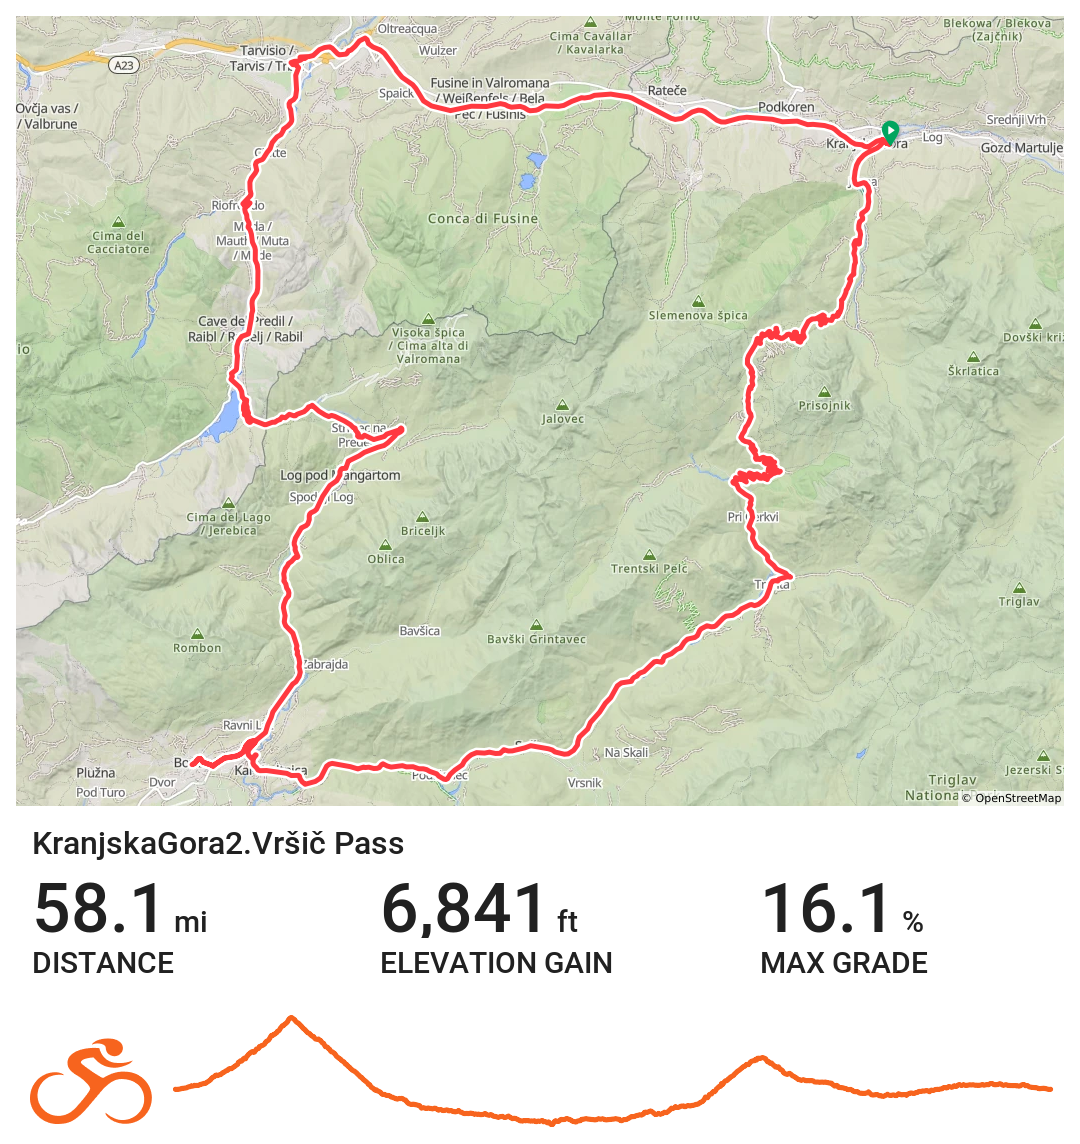
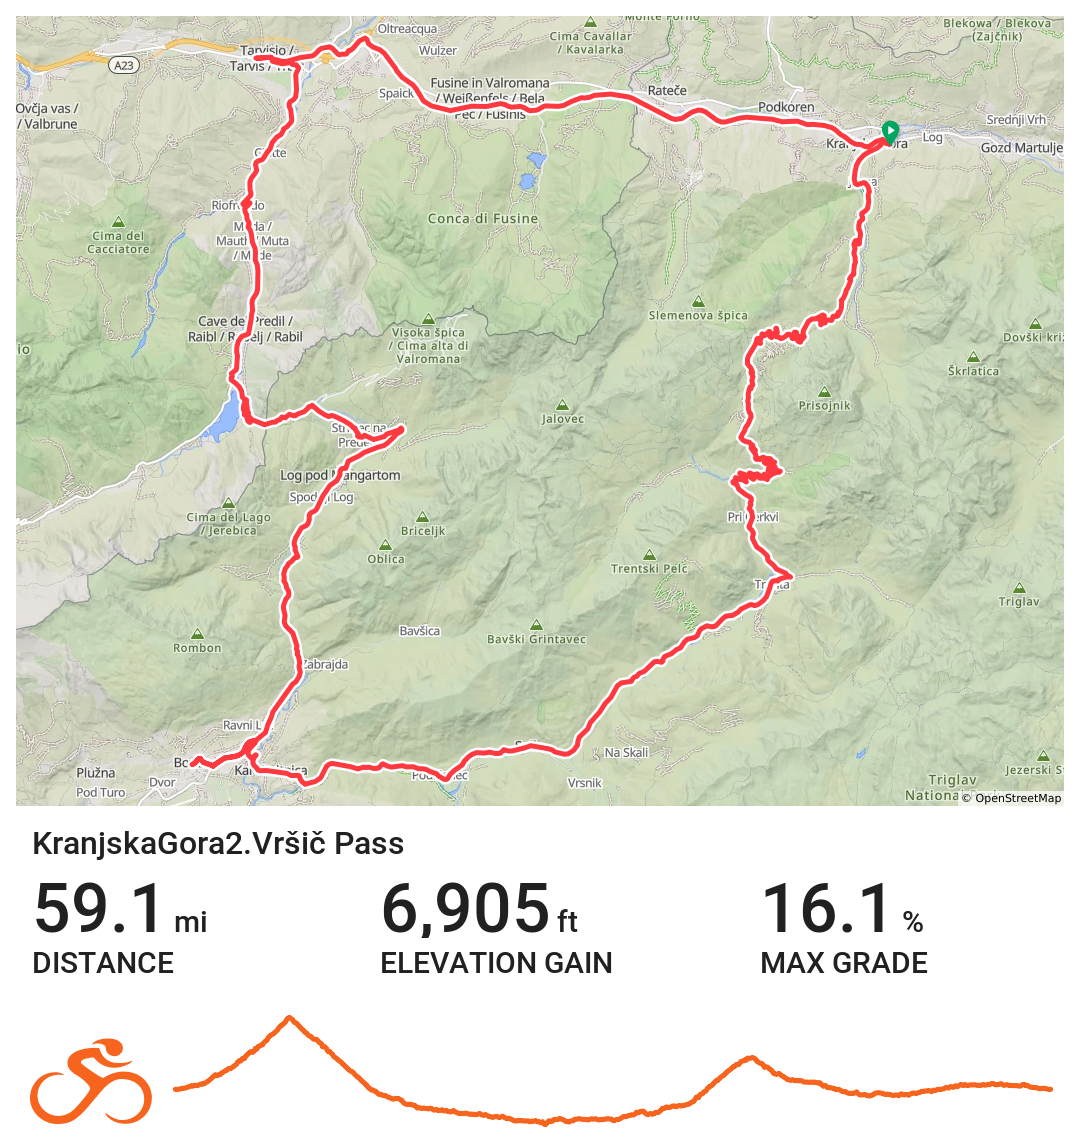
bcbb

diff --git a/2027_Slovenia_Alps.html b/2027_Slovenia_Alps.html
@@ -440,6 +440,14 @@
                       View on Google Maps
                     </a>
                   </p>
+                  <p class="cafe-name">Panificio Pasticceria Svetina</p>
+                  <p>📍 Tarvisio</p>
+                  <p>🚴 Distance: 47.5 miles</p>
+                  <p>
+                    <a href="https://maps.app.goo.gl/khNWrSSLJvLAaqaH6" target="_blank" class="google-btn">
+                      View on Google Maps
+                    </a>
+                  </p>
                 </div>
               </div>
 
